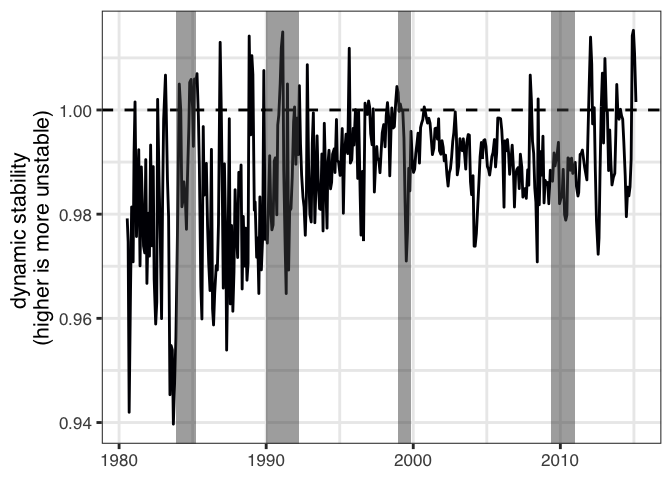
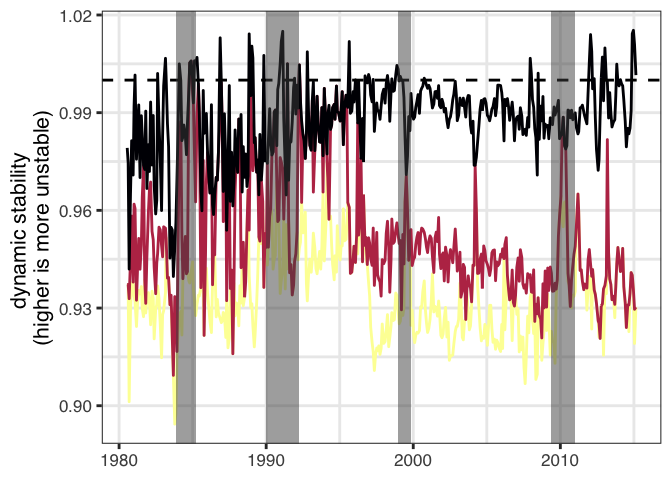
update portal analysis Rmd

diff --git a/analysis/portal_analysis.md b/analysis/portal_analysis.md
@@ -18,8 +18,7 @@ library(ggplot2)
 set.seed(42)
 knitr::opts_chunk$set(
   collapse = TRUE,
-  comment = "#>",
-  fig_width = 7
+  comment = "#>"
 )
 ```
 
@@ -92,7 +91,8 @@ Highlighted segments are the posterior estimates of regime shifts from
 Christensen et al. 2018.
 
 ``` r
-plot_eigenvalues(results$eigenvalues) %>% 
+plot_eigenvalues(results$eigenvalues, 
+                 num_values = 3) %>% 
     add_regime_shift_highlight()
 ```
 
@@ -111,7 +111,8 @@ Again, highlighted segments are the posterior estimates of regime shifts
 from Christensen et al. 2018.
 
 ``` r
-plot_svd_values(results$svd_decomp$d) %>% 
+plot_svd_values(results$svd_decomp$d, 
+                num_values = 3) %>% 
     add_regime_shift_highlight()
 ```
 
